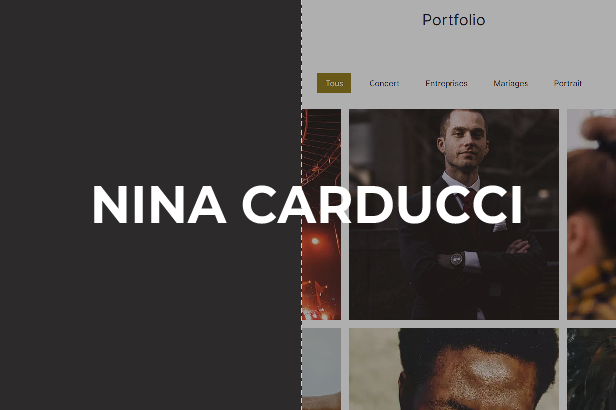
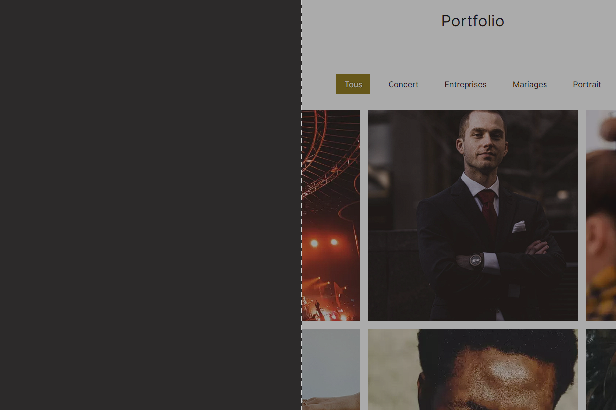
fix h4 z-index & Add filter bw

diff --git a/index.html b/index.html
@@ -122,8 +122,11 @@
                 ></span>
               </p>
             </div>
-
-            <img src="img/project/booki (2).png" alt="" />
+            <h4 class="titleproject1">
+              BOOKI
+            </h4>
+            <a href="https://github.com/alexanthonyso/Booki"
+            > <img src="img/project/booki (2).png" alt="" />
             <a
               class="social-link"
               href="https://github.com/alexanthonyso/Booki"
@@ -141,8 +144,13 @@
                 ></span>
               </p>
             </div>
+            <h4 class="titleproject2">
+              NINA CARDUCCI
+            </h4>
 
-            <img src="img/project/NINA.png" alt="" />
+            <a href="https://github.com/alexanthonyso/master"
+              ><img src="img/project/NINA.png" alt=""
+            /></a>
             <a
               class="social-link"
               href="https://github.com/alexanthonyso/master"
@@ -176,9 +184,9 @@
                 href="https://www.linkedin.com/in/alexis-soufflet-177453272/"
                 target="_blank"
               >
-                <img src="img/pngwing 1.png" alt="Lien vers Linkedin" />
+                <img src="img/pngwing 1.png"  alt="Lien vers Linkedin" />
               </a>
-              <img src="img/pngwing 2.png" alt="" />
+              
 
               <form method="post">
                 <label for="nom">NAME</label>

diff --git a/main.css b/main.css
@@ -1,5 +1,6 @@
 * {
   font-family: "Montserrat", sans-serif;
+
 }
 
 html,
@@ -7,6 +8,8 @@ body,
 section {
   block-size: 100%;
 }
+
+
 
 html {
   scroll-behavior: smooth;
@@ -26,6 +29,11 @@ h2 {
 h3 {
   margin-left: 2%;
   font-size: 18px;
+}
+
+h4{
+
+font-size: 35px;
 }
 
 p {
@@ -116,6 +124,11 @@ nav ul {
   width: 614px;
   height: 408px;
 }
+
+.skill p {
+  font-size: 17px;
+}
+
 .more:hover,
 .skill:hover,
 .info:hover,
@@ -221,6 +234,7 @@ nav ul {
   border: 1px dashed #000000;
   width: 616px;
   height: 410px;
+  position: relative;
 }
 
 .project .text {
@@ -228,13 +242,28 @@ nav ul {
   margin: 1% 0 0 1%;
   position: absolute;
   color: white;
+  z-index: 1;
+}
+.titleproject1 {
+  position: absolute;
+  color: white;
+  z-index: 2;
+  top: 35%;
+  left: 40%;
 }
 
-/* .project img {
 
+.titleproject2 {
+  position: absolute;
+  color: white;
+  z-index: 2;
+  top: 35%;
+  left: 25%;
+}
+
+.project img {
   filter: grayscale(100%);
-
-} */
+}
 
 .project img:hover {
   cursor: pointer;
@@ -318,6 +347,7 @@ section:nth-of-type(odd) {
   border-right: 3px solid;
 }
 
+
 @keyframes typing {
   from {
     width: 0;
@@ -339,3 +369,14 @@ input,
 textarea {
   border: 1px dashed #000000;
 }
+
+label, input{
+
+  padding: 3%;
+}
+
+input, textarea{
+ background: none;
+}
+
+
